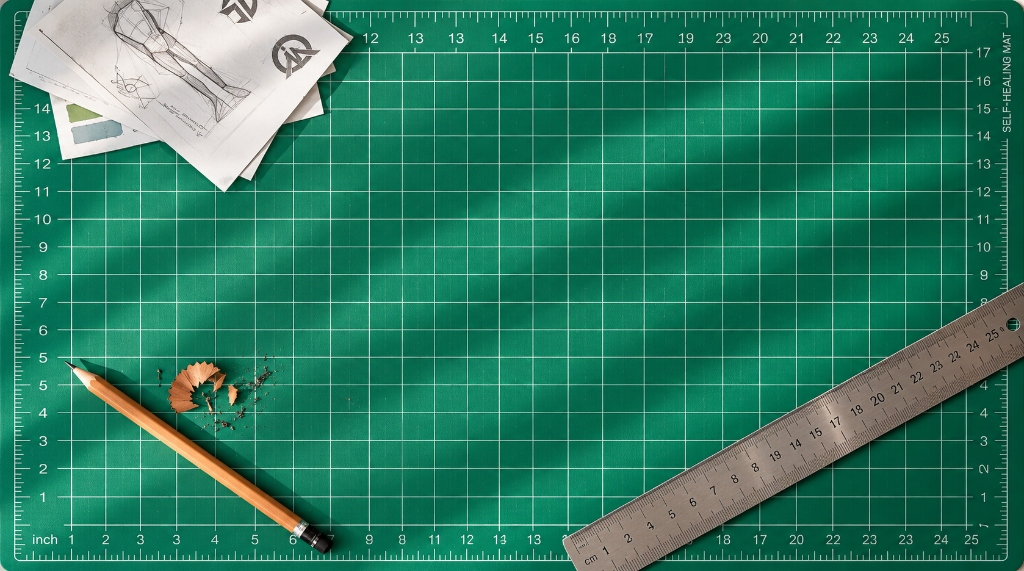
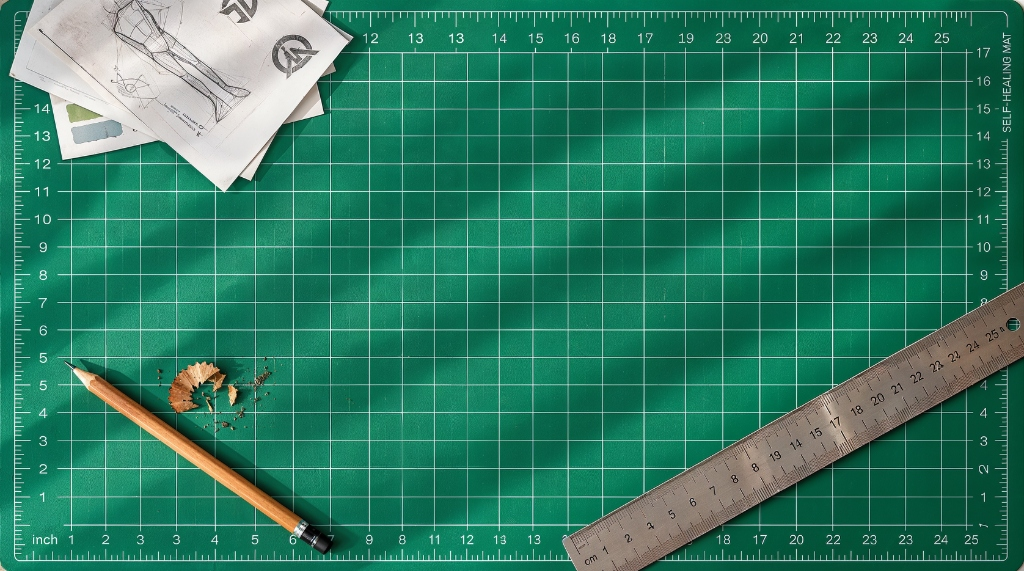
feat: update with ultra high-res desk background and expand paper container to max-w-4xl

diff --git a/src/app/page.tsx b/src/app/page.tsx
@@ -16,7 +16,6 @@ import {
   IconUsers,
   IconSchool,
   IconExternalLink,
-  IconBrandGithub,
   IconMail,
   IconPhone,
   IconMapPin
@@ -78,7 +77,7 @@ export default function ResumePage() {
           initial={{ opacity: 0, y: 10 }}
           animate={{ opacity: 1, y: 0 }}
           transition={{ duration: 0.5, delay: 0.25 }}
-          className="mt-2.5 max-w-2xl text-balance text-3xl font-extrabold tracking-tight text-neutral-900 sm:text-4xl md:text-5xl leading-[1.18] text-center"
+          className="mt-2.5 max-w-3xl text-balance text-3xl font-extrabold tracking-tight text-neutral-900 sm:text-4xl md:text-5xl leading-[1.18] text-center"
         >
           Aspiring{" "}
           <span className="inline-flex items-center align-middle mx-1 -mt-1 p-1 rounded-lg bg-neutral-100 border border-neutral-300 shadow-2xs">
@@ -135,14 +134,14 @@ export default function ResumePage() {
         initial={{ opacity: 0, y: 15 }}
         animate={{ opacity: 1, y: 0 }}
         transition={{ duration: 0.5, delay: 0.45 }}
-        className="space-y-10 text-[15px] leading-relaxed text-neutral-700 max-w-2xl mx-auto"
+        className="space-y-10 text-[15px] leading-relaxed text-neutral-700 max-w-3xl mx-auto"
       >
         {/* ── SECTION: Summary ── */}
         <section className="space-y-2">
           <h2 className="text-xs font-bold uppercase tracking-wider text-neutral-400 flex items-center gap-1.5">
             <span>Summary</span>
           </h2>
-          <p className="text-[15px] leading-relaxed text-neutral-800 bg-white/60 p-4 rounded-xl border border-neutral-200/80 shadow-2xs">
+          <p className="text-[15px] leading-relaxed text-neutral-800 bg-white/70 p-5 rounded-2xl border border-neutral-200/80 shadow-2xs">
             Final-year Computer Science student with experience in <strong>Full Stack Development</strong>, <strong>React</strong>, <strong>Next.js</strong>, <strong>Firebase</strong>, and <strong>AWS</strong>. Built multilingual web platforms, admin dashboards, and client-facing applications through freelancing and professional work. Passionate about creating scalable digital products with strong user experience and performance optimization.
           </p>
         </section>
@@ -153,15 +152,15 @@ export default function ResumePage() {
             <IconSchool size={15} />
             <span>Education</span>
           </h2>
-          <div className="rounded-xl border border-neutral-200/80 bg-white/80 p-4 shadow-2xs">
+          <div className="rounded-2xl border border-neutral-200/80 bg-white/85 p-5 shadow-2xs">
             <div className="flex flex-col sm:flex-row sm:items-center sm:justify-between gap-1">
-              <h3 className="font-bold text-neutral-900">B.Tech in Computer Science &amp; Engineering</h3>
+              <h3 className="font-bold text-neutral-900 text-[16px]">B.Tech in Computer Science &amp; Engineering</h3>
               <span className="text-xs font-semibold text-neutral-500">2023 – Present</span>
             </div>
-            <p className="text-sm text-neutral-600 mt-0.5">
+            <p className="text-sm text-neutral-600 mt-1">
               <span className="font-medium text-neutral-800">Amal Jyothi College of Engineering (Autonomous)</span>, Kanjirappally
             </p>
-            <div className="mt-2 inline-flex items-center rounded-md bg-neutral-100 px-2.5 py-0.5 text-xs font-semibold text-neutral-700">
+            <div className="mt-2.5 inline-flex items-center rounded-md bg-neutral-100 px-3 py-1 text-xs font-semibold text-neutral-800">
               CGPA: 7.39
             </div>
           </div>
@@ -174,9 +173,9 @@ export default function ResumePage() {
             <span>Work Experience</span>
           </h2>
 
-          <div className="space-y-3">
+          <div className="space-y-3.5">
             {/* INCIAL */}
-            <div className="rounded-xl border border-neutral-200/90 bg-white/85 p-4 sm:p-5 shadow-2xs">
+            <div className="rounded-2xl border border-neutral-200/90 bg-white/90 p-5 sm:p-6 shadow-2xs">
               <div className="flex flex-col sm:flex-row sm:items-center sm:justify-between gap-1">
                 <div>
                   <h3 className="font-bold text-neutral-900 text-[16px]">INCIAL</h3>
@@ -184,7 +183,7 @@ export default function ResumePage() {
                 </div>
                 <span className="text-xs font-medium text-neutral-500">Mar 2024 – Present</span>
               </div>
-              <ul className="mt-3 space-y-1.5 text-sm text-neutral-700 list-disc list-outside pl-4">
+              <ul className="mt-3.5 space-y-2 text-sm text-neutral-700 list-disc list-outside pl-4">
                 <li>
                   Built and shipped full-stack web products for clients using React, Next.js, and Tailwind CSS, reducing design-to-dev handoff friction through Figma-aligned components.
                 </li>
@@ -195,7 +194,7 @@ export default function ResumePage() {
             </div>
 
             {/* FREELANCE */}
-            <div className="rounded-xl border border-neutral-200/90 bg-white/85 p-4 sm:p-5 shadow-2xs">
+            <div className="rounded-2xl border border-neutral-200/90 bg-white/90 p-5 sm:p-6 shadow-2xs">
               <div className="flex flex-col sm:flex-row sm:items-center sm:justify-between gap-1">
                 <div>
                   <h3 className="font-bold text-neutral-900 text-[16px]">Freelance</h3>
@@ -203,7 +202,7 @@ export default function ResumePage() {
                 </div>
                 <span className="text-xs font-medium text-neutral-500">2023 – Present</span>
               </div>
-              <ul className="mt-3 space-y-1.5 text-sm text-neutral-700 list-disc list-outside pl-4">
+              <ul className="mt-3.5 space-y-2 text-sm text-neutral-700 list-disc list-outside pl-4">
                 <li>
                   Developed and launched 5+ web applications with a 90% client satisfaction rate across diverse domains.
                 </li>
@@ -224,7 +223,7 @@ export default function ResumePage() {
 
           <div className="space-y-3.5">
             {/* Project 1: Blaupunkt EV */}
-            <div className="rounded-xl border border-neutral-200/90 bg-white/90 p-4 sm:p-5 shadow-2xs">
+            <div className="rounded-2xl border border-neutral-200/90 bg-white/90 p-5 sm:p-6 shadow-2xs">
               <div className="flex flex-col sm:flex-row sm:items-center sm:justify-between gap-1">
                 <div className="flex items-center gap-2">
                   <h3 className="font-bold text-neutral-900 text-[16px]">Blaupunkt EV</h3>
@@ -246,10 +245,10 @@ export default function ResumePage() {
               <p className="mt-2 text-sm text-neutral-700">
                 Built a localization-ready product catalog and contact platform serving international markets with Resend-powered email workflows.
               </p>
-              <div className="mt-3 pt-2.5 border-t border-neutral-100 flex flex-wrap items-center gap-1.5 text-xs text-neutral-500">
-                <span className="font-semibold text-neutral-700">Tech Stack:</span>
+              <div className="mt-3.5 pt-3 border-t border-neutral-100 flex flex-wrap items-center gap-1.5 text-xs text-neutral-500">
+                <span className="font-semibold text-neutral-700 mr-1">Tech Stack:</span>
                 {["Next.js", "React", "Tailwind CSS", "next-intl", "Framer Motion", "PDF-lib"].map((tech) => (
-                  <span key={tech} className="rounded bg-neutral-100 px-2 py-0.5 text-[11px] font-medium text-neutral-700">
+                  <span key={tech} className="rounded bg-neutral-100 px-2.5 py-0.5 text-[11px] font-medium text-neutral-800">
                     {tech}
                   </span>
                 ))}
@@ -257,7 +256,7 @@ export default function ResumePage() {
             </div>
 
             {/* Project 2: LightSuvara */}
-            <div className="rounded-xl border border-neutral-200/90 bg-white/90 p-4 sm:p-5 shadow-2xs">
+            <div className="rounded-2xl border border-neutral-200/90 bg-white/90 p-5 sm:p-6 shadow-2xs">
               <div className="flex flex-col sm:flex-row sm:items-center sm:justify-between gap-1">
                 <div className="flex items-center gap-2">
                   <h3 className="font-bold text-neutral-900 text-[16px]">LightSuvara — Educational Admin Dashboard</h3>
@@ -279,10 +278,10 @@ export default function ResumePage() {
               <p className="mt-2 text-sm text-neutral-700">
                 Built the Web Admin Panel managing 1,000+ users across schools, animators, and admins with role-based access, event workflows, grading, and PDF report generation.
               </p>
-              <div className="mt-3 pt-2.5 border-t border-neutral-100 flex flex-wrap items-center gap-1.5 text-xs text-neutral-500">
-                <span className="font-semibold text-neutral-700">Tech Stack:</span>
+              <div className="mt-3.5 pt-3 border-t border-neutral-100 flex flex-wrap items-center gap-1.5 text-xs text-neutral-500">
+                <span className="font-semibold text-neutral-700 mr-1">Tech Stack:</span>
                 {["React", "TypeScript", "Tailwind CSS", "Firebase", "Vite", "Shadcn UI", "Recharts"].map((tech) => (
-                  <span key={tech} className="rounded bg-neutral-100 px-2 py-0.5 text-[11px] font-medium text-neutral-700">
+                  <span key={tech} className="rounded bg-neutral-100 px-2.5 py-0.5 text-[11px] font-medium text-neutral-800">
                     {tech}
                   </span>
                 ))}
@@ -290,7 +289,7 @@ export default function ResumePage() {
             </div>
 
             {/* Project 3: Intern-Hub */}
-            <div className="rounded-xl border border-neutral-200/90 bg-white/90 p-4 sm:p-5 shadow-2xs">
+            <div className="rounded-2xl border border-neutral-200/90 bg-white/90 p-5 sm:p-6 shadow-2xs">
               <div className="flex flex-col sm:flex-row sm:items-center sm:justify-between gap-1">
                 <div className="flex items-center gap-2">
                   <h3 className="font-bold text-neutral-900 text-[16px]">Intern-Hub — Centralized Internship Platform</h3>
@@ -312,10 +311,10 @@ export default function ResumePage() {
               <p className="mt-2 text-sm text-neutral-700">
                 Built a centralized internship hub for TBI AJCE students, onboarding 100+ users on launch.
               </p>
-              <div className="mt-3 pt-2.5 border-t border-neutral-100 flex flex-wrap items-center gap-1.5 text-xs text-neutral-500">
-                <span className="font-semibold text-neutral-700">Tech Stack:</span>
+              <div className="mt-3.5 pt-3 border-t border-neutral-100 flex flex-wrap items-center gap-1.5 text-xs text-neutral-500">
+                <span className="font-semibold text-neutral-700 mr-1">Tech Stack:</span>
                 {["HTML", "CSS", "JavaScript"].map((tech) => (
-                  <span key={tech} className="rounded bg-neutral-100 px-2 py-0.5 text-[11px] font-medium text-neutral-700">
+                  <span key={tech} className="rounded bg-neutral-100 px-2.5 py-0.5 text-[11px] font-medium text-neutral-800">
                     {tech}
                   </span>
                 ))}
@@ -329,9 +328,9 @@ export default function ResumePage() {
           <h2 className="text-xs font-bold uppercase tracking-wider text-neutral-400 flex items-center gap-1.5">
             <span>Skills &amp; Capabilities</span>
           </h2>
-          <div className="grid grid-cols-1 sm:grid-cols-2 gap-3">
-            <div className="rounded-xl border border-neutral-200/80 bg-white/80 p-4 shadow-2xs">
-              <h3 className="text-xs font-bold text-neutral-900 uppercase tracking-wider mb-2">Languages &amp; Frameworks</h3>
+          <div className="grid grid-cols-1 sm:grid-cols-2 gap-3.5">
+            <div className="rounded-2xl border border-neutral-200/80 bg-white/85 p-5 shadow-2xs">
+              <h3 className="text-xs font-bold text-neutral-900 uppercase tracking-wider mb-2.5">Languages &amp; Frameworks</h3>
               <div className="flex flex-wrap gap-1.5">
                 {["React", "Next.js", "JavaScript", "TypeScript", "Tailwind CSS", "Python", "C"].map((item) => (
                   <span key={item} className="rounded-md bg-neutral-100 px-2.5 py-1 text-xs font-medium text-neutral-800">
@@ -341,8 +340,8 @@ export default function ResumePage() {
               </div>
             </div>
 
-            <div className="rounded-xl border border-neutral-200/80 bg-white/80 p-4 shadow-2xs">
-              <h3 className="text-xs font-bold text-neutral-900 uppercase tracking-wider mb-2">Design &amp; Creative</h3>
+            <div className="rounded-2xl border border-neutral-200/80 bg-white/85 p-5 shadow-2xs">
+              <h3 className="text-xs font-bold text-neutral-900 uppercase tracking-wider mb-2.5">Design &amp; Creative</h3>
               <div className="flex flex-wrap gap-1.5">
                 {["Figma", "UI/UX Design", "Photoshop", "Illustrator", "Blender", "Canva", "Adobe Suite"].map((item) => (
                   <span key={item} className="rounded-md bg-neutral-100 px-2.5 py-1 text-xs font-medium text-neutral-800">
@@ -352,8 +351,8 @@ export default function ResumePage() {
               </div>
             </div>
 
-            <div className="rounded-xl border border-neutral-200/80 bg-white/80 p-4 shadow-2xs">
-              <h3 className="text-xs font-bold text-neutral-900 uppercase tracking-wider mb-2">Dev Tools &amp; Cloud</h3>
+            <div className="rounded-2xl border border-neutral-200/80 bg-white/85 p-5 shadow-2xs">
+              <h3 className="text-xs font-bold text-neutral-900 uppercase tracking-wider mb-2.5">Dev Tools &amp; Cloud</h3>
               <div className="flex flex-wrap gap-1.5">
                 {["Git", "Docker", "AWS", "Firebase", "Vercel", "Vite", "Postman"].map((item) => (
                   <span key={item} className="rounded-md bg-neutral-100 px-2.5 py-1 text-xs font-medium text-neutral-800">
@@ -363,8 +362,8 @@ export default function ResumePage() {
               </div>
             </div>
 
-            <div className="rounded-xl border border-neutral-200/80 bg-white/80 p-4 shadow-2xs">
-              <h3 className="text-xs font-bold text-neutral-900 uppercase tracking-wider mb-2">Specializations</h3>
+            <div className="rounded-2xl border border-neutral-200/80 bg-white/85 p-5 shadow-2xs">
+              <h3 className="text-xs font-bold text-neutral-900 uppercase tracking-wider mb-2.5">Specializations</h3>
               <div className="flex flex-wrap gap-1.5">
                 {["AI/ML Integration", "Graphic Design", "Motion Graphics", "3D Modeling", "Multilingual Systems"].map((item) => (
                   <span key={item} className="rounded-md bg-neutral-100 px-2.5 py-1 text-xs font-medium text-neutral-800">
@@ -382,32 +381,32 @@ export default function ResumePage() {
             <IconBriefcase size={15} />
             <span>Internships</span>
           </h2>
-          <div className="space-y-3">
+          <div className="space-y-3.5">
             {/* NeST */}
-            <div className="rounded-xl border border-neutral-200/80 bg-white/80 p-4 shadow-2xs">
+            <div className="rounded-2xl border border-neutral-200/80 bg-white/85 p-5 shadow-2xs">
               <div className="flex flex-col sm:flex-row sm:items-center sm:justify-between gap-1">
                 <div>
-                  <h3 className="font-bold text-neutral-900">DevOps with AI – Industry Immersion Program</h3>
+                  <h3 className="font-bold text-neutral-900 text-[16px]">DevOps with AI – Industry Immersion Program</h3>
                   <p className="text-xs font-semibold text-neutral-600">NeST Digital Academy, Kochi</p>
                 </div>
                 <span className="text-xs font-medium text-neutral-500">Feb 2026</span>
               </div>
-              <ul className="mt-2.5 space-y-1 text-sm text-neutral-700 list-disc list-outside pl-4">
+              <ul className="mt-3 space-y-1.5 text-sm text-neutral-700 list-disc list-outside pl-4">
                 <li>Gained hands-on experience with AWS cloud services and Docker containerization for building deployment pipelines.</li>
                 <li>Explored AI-integrated DevOps tooling and end-to-end CI/CD workflows.</li>
               </ul>
             </div>
 
             {/* Luminar */}
-            <div className="rounded-xl border border-neutral-200/80 bg-white/80 p-4 shadow-2xs">
+            <div className="rounded-2xl border border-neutral-200/80 bg-white/85 p-5 shadow-2xs">
               <div className="flex flex-col sm:flex-row sm:items-center sm:justify-between gap-1">
                 <div>
-                  <h3 className="font-bold text-neutral-900">Data Science &amp; Deep Learning Intern</h3>
+                  <h3 className="font-bold text-neutral-900 text-[16px]">Data Science &amp; Deep Learning Intern</h3>
                   <p className="text-xs font-semibold text-neutral-600">Luminar Technolab, Kochi</p>
                 </div>
                 <span className="text-xs font-medium text-neutral-500">Jun 2025 · 1 Month</span>
               </div>
-              <ul className="mt-2.5 space-y-1 text-sm text-neutral-700 list-disc list-outside pl-4">
+              <ul className="mt-3 space-y-1.5 text-sm text-neutral-700 list-disc list-outside pl-4">
                 <li>Built and optimized ANNs and CNNs using TensorFlow for image classification, achieving improved accuracy on Food 101 dataset through data augmentation.</li>
                 <li>Designed and deployed a custom deep learning model on Kaggle, completing the full end-to-end AI pipeline from preprocessing to evaluation.</li>
               </ul>
@@ -421,7 +420,7 @@ export default function ResumePage() {
             <IconTrophy size={15} />
             <span>Honors &amp; Hackathon Awards</span>
           </h2>
-          <div className="space-y-2.5 rounded-2xl border border-neutral-200/90 bg-white/85 p-5 shadow-2xs">
+          <div className="space-y-3 rounded-2xl border border-neutral-200/90 bg-white/90 p-5 sm:p-6 shadow-2xs">
             <div className="flex items-start gap-3.5">
               <span className="mt-0.5 flex h-6 w-6 shrink-0 items-center justify-center rounded-full bg-amber-100 text-amber-800 text-xs font-bold shadow-2xs">
                 ★
@@ -462,7 +461,7 @@ export default function ResumePage() {
               <IconCertificate size={15} />
               <span>Certifications</span>
             </h2>
-            <div className="rounded-xl border border-neutral-200/80 bg-white/80 p-4 shadow-2xs space-y-2 text-sm text-neutral-800">
+            <div className="rounded-2xl border border-neutral-200/80 bg-white/85 p-5 shadow-2xs space-y-2 text-sm text-neutral-800">
               <p>• <strong>DevOps with AI</strong> — NeST Digital Academy</p>
               <p>• <strong>Google UX Design</strong> — Coursera</p>
               <p>• <strong>Meta Front-End</strong> — Coursera</p>
@@ -476,7 +475,7 @@ export default function ResumePage() {
               <IconUsers size={15} />
               <span>Leadership &amp; Community</span>
             </h2>
-            <div className="rounded-xl border border-neutral-200/80 bg-white/80 p-4 shadow-2xs space-y-2 text-sm text-neutral-800">
+            <div className="rounded-2xl border border-neutral-200/80 bg-white/85 p-5 shadow-2xs space-y-2 text-sm text-neutral-800">
               <p>• <strong>Web Team Lead</strong> — GDG on Campus AJCE</p>
               <p>• <strong>Chief Creative Officer (CCO)</strong> — IEDC AJCE</p>
               <p>• <strong>Tech Lead</strong> — Blankspace</p>
@@ -485,39 +484,39 @@ export default function ResumePage() {
         </div>
 
         {/* ── SECTION: Instant PDF Download Actions ── */}
-        <div className="my-8 grid grid-cols-1 gap-4 sm:grid-cols-2 pt-4 border-t border-neutral-200/80">
+        <div className="my-8 grid grid-cols-1 gap-4 sm:grid-cols-2 pt-6 border-t border-neutral-200/80">
           <a
             href="/resume/Abin_Varghese_Resume.pdf"
             download="Abin_Varghese_Resume.pdf"
-            className="group flex items-center justify-between rounded-xl border border-neutral-200/90 bg-white/95 p-4 shadow-xs transition hover:border-neutral-400 hover:shadow-sm"
+            className="group flex items-center justify-between rounded-2xl border border-neutral-200/90 bg-white/95 p-4.5 shadow-xs transition hover:border-neutral-400 hover:shadow-sm"
           >
             <div className="flex items-center gap-3.5">
-              <div className="flex h-10 w-10 items-center justify-center rounded-lg bg-blue-600 text-white shadow-xs">
-                <IconFileText size={20} stroke={2} />
+              <div className="flex h-11 w-11 items-center justify-center rounded-xl bg-blue-600 text-white shadow-xs">
+                <IconFileText size={22} stroke={2} />
               </div>
               <div className="text-left">
-                <p className="text-xs font-bold text-neutral-900 leading-tight">Download Developer CV</p>
-                <p className="text-[11px] text-neutral-500">Official PDF · Code &amp; Systems</p>
+                <p className="text-sm font-bold text-neutral-900 leading-tight">Download Developer CV</p>
+                <p className="text-xs text-neutral-500 mt-0.5">Official PDF · Code &amp; Systems</p>
               </div>
             </div>
-            <IconDownload size={18} className="text-neutral-400 group-hover:text-neutral-900 transition" />
+            <IconDownload size={20} className="text-neutral-400 group-hover:text-neutral-900 transition" />
           </a>
 
           <a
             href="/resume/Abin-Varghese-Portfolio.pdf"
             download="Abin_Varghese_Designer_Portfolio.pdf"
-            className="group flex items-center justify-between rounded-xl border border-neutral-200/90 bg-white/95 p-4 shadow-xs transition hover:border-neutral-400 hover:shadow-sm"
+            className="group flex items-center justify-between rounded-2xl border border-neutral-200/90 bg-white/95 p-4.5 shadow-xs transition hover:border-neutral-400 hover:shadow-sm"
           >
             <div className="flex items-center gap-3.5">
-              <div className="flex h-10 w-10 items-center justify-center rounded-lg bg-rose-500 text-white shadow-xs">
-                <IconPalette size={20} stroke={2} />
+              <div className="flex h-11 w-11 items-center justify-center rounded-xl bg-rose-500 text-white shadow-xs">
+                <IconPalette size={22} stroke={2} />
               </div>
               <div className="text-left">
-                <p className="text-xs font-bold text-neutral-900 leading-tight">Download Design Deck</p>
-                <p className="text-[11px] text-neutral-500">Official PDF · UI/UX &amp; Motion</p>
+                <p className="text-sm font-bold text-neutral-900 leading-tight">Download Design Deck</p>
+                <p className="text-xs text-neutral-500 mt-0.5">Official PDF · UI/UX &amp; Motion</p>
               </div>
             </div>
-            <IconDownload size={18} className="text-neutral-400 group-hover:text-neutral-900 transition" />
+            <IconDownload size={20} className="text-neutral-400 group-hover:text-neutral-900 transition" />
           </a>
         </div>
 

diff --git a/src/components/ResumePaperLayout.tsx b/src/components/ResumePaperLayout.tsx
@@ -10,23 +10,24 @@ interface ResumePaperLayoutProps {
 export default function ResumePaperLayout({ children }: ResumePaperLayoutProps) {
   return (
     <div className="relative min-h-screen w-full selection:bg-neutral-900 selection:text-white">
-      {/* ── 1. Fixed Cutting Mat Desk Background ── */}
+      {/* ── 1. Fixed High-Quality Cutting Mat Desk Background ── */}
       <div className="fixed inset-0 z-0 h-screen w-screen overflow-hidden pointer-events-none">
         <Image
           src="/desk-bg.jpg"
           alt="Cutting Mat Desk Background"
           fill
           priority
+          quality={100}
           className="object-cover object-center"
         />
-        {/* Subtle ambient lighting overlay */}
+        {/* Subtle ambient lighting vignette overlay */}
         <div className="absolute inset-0 bg-black/5 mix-blend-multiply" />
       </div>
 
       {/* ── 2. Scrollable Viewport Container ── */}
       <div className="relative z-10 min-h-screen w-full px-3 py-8 sm:px-8 sm:py-14 md:py-20 flex justify-center">
-        {/* ── 3. Centered Wider Physical Paper Document ── */}
-        <div className="relative w-full max-w-3xl md:max-w-[820px] overflow-hidden rounded-2xl sm:rounded-3xl border border-[#e5e1d3] bg-[#faf8f4] p-7 sm:p-12 md:p-16 shadow-[0_25px_60px_-15px_rgba(0,0,0,0.45),0_12px_28px_-5px_rgba(0,0,0,0.25)] ring-1 ring-black/5 backdrop-blur-2xs">
+        {/* ── 3. Centered Expansive Physical Paper Document (Wider Layout) ── */}
+        <div className="relative w-full max-w-4xl lg:max-w-[950px] overflow-hidden rounded-2xl sm:rounded-3xl border border-[#e5e1d3] bg-[#faf8f4] p-7 sm:p-12 md:p-16 lg:p-20 shadow-[0_25px_60px_-15px_rgba(0,0,0,0.45),0_12px_28px_-5px_rgba(0,0,0,0.25)] ring-1 ring-black/5 backdrop-blur-2xs">
           {/* Paper Texture: Tactile Fiber Noise Overlay */}
           <div 
             className="pointer-events-none absolute inset-0 z-0 opacity-[0.065] mix-blend-multiply"
